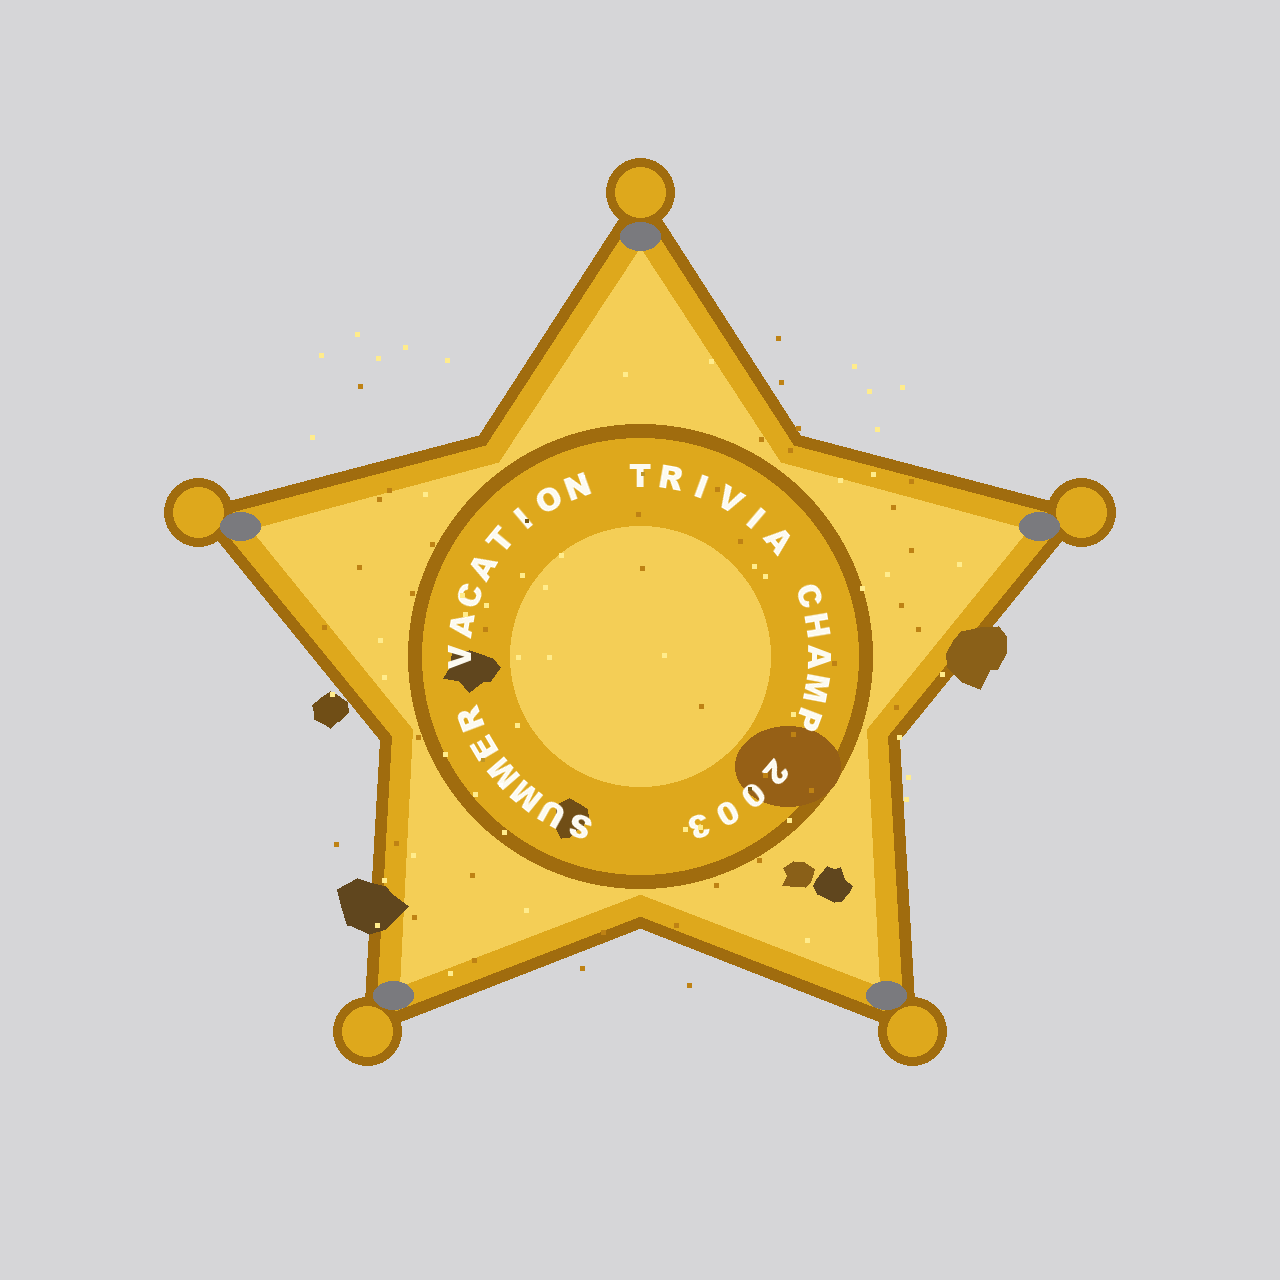
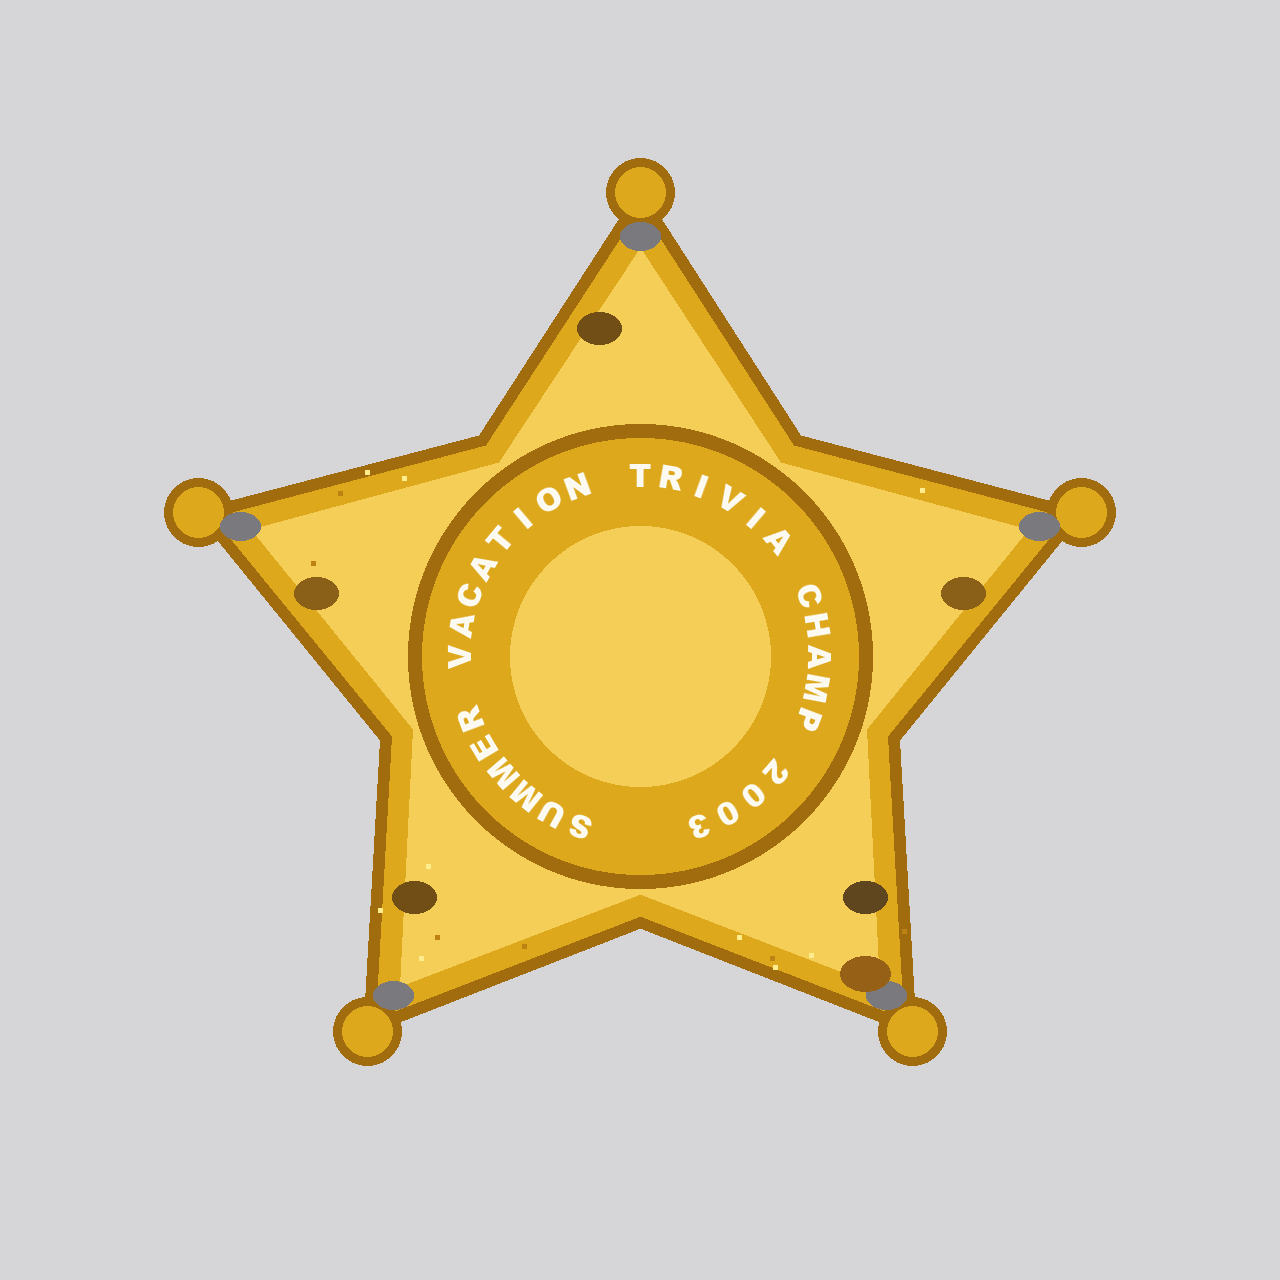
art(debaucheryville): badge star round 2 (grime off the lettering, onto the arms only)
Claude-Session: https://claude.ai/code/session_01Rk2Ri3vAu7TBhRadSU9CbJ

diff --git a/dev/asset_team/icon_refs/b14_gen.py b/dev/asset_team/icon_refs/b14_gen.py
@@ -67,22 +67,19 @@ def badge():
     d.ellipse((cx - rc, cy - rc, cx + rc, cy + rc), fill=GOLD_D)
     d.ellipse((cx - rc + 14, cy - rc + 14, cx + rc - 14, cy + rc - 14), fill=GOLD)
     d.ellipse((cx - 130, cy - 130, cx + 130, cy + 130), fill=GOLD_L)
-    stains(d, rnd, (int(cx - 380), int(cy - 380), int(cx + 380), int(cy + 380)), 7,
-           [(112, 78, 22), (138, 96, 24), (96, 70, 30)], 14, 34)
-    d.ellipse((cx + 95, cy + 70, cx + 200, cy + 150), fill=(150, 96, 22))
+    for k, ang in enumerate((-90, -18, 54, 126, 198)):   # grime only on the arms, never near the text ring
+        a = math.radians(ang + (7 if k % 2 else -7)); sx, sy = cx + 330 * math.cos(a), cy + 330 * math.sin(a)
+        d.ellipse((sx - 22, sy - 16, sx + 22, sy + 16), fill=[(112, 78, 22), (138, 96, 24), (96, 70, 30)][k % 3])
+    d.ellipse((cx + 200, cy + 300, cx + 250, cy + 335), fill=(150, 96, 22))
     txt = "SUMMER VACATION TRIVIA CHAMP 2003"
     big = Image.new("RGBA", (S, S), (0, 0, 0, 0))
     arc_text(big, txt, cx, cy, 182, 322, font("ariblk.ttf", 31), (252, 250, 240, 255), center_deg=-90)
-    sp = ImageDraw.Draw(big)
-    for _ in range(260):
-        x = rnd.randint(int(cx - 260), int(cx + 260)); y = rnd.randint(int(cy - 260), int(cy + 260))
-        if big.getpixel((x, y))[3] > 200:
-            sp.rectangle((x, y, x + 3, y + 3), fill=rnd.choice([(190, 150, 40, 255), (255, 255, 255, 255), (120, 90, 20, 255)]))
     img.alpha_composite(big)
     d2 = ImageDraw.Draw(img)
     for _ in range(90):
         x = rnd.randint(int(cx - 330), int(cx + 330)); y = rnd.randint(int(cy - 330), int(cy + 330))
-        d2.rectangle((x, y, x + 4, y + 4), fill=rnd.choice([(255, 236, 140, 255), (190, 130, 20, 255)]))
+        if 290 < math.hypot(x - cx, y - cy) < 440 and img.getpixel((x, y))[:3] != GREY and img.getpixel((x + 4, y + 4))[:3] != GREY:
+            d2.rectangle((x, y, x + 4, y + 4), fill=rnd.choice([(255, 236, 140, 255), (190, 130, 20, 255)]))
     img.convert("RGB").save(OUT + "trivia_champ_badge_ref.png")
     return OUT + "trivia_champ_badge_ref.png"
 

diff --git a/dev/asset_team/icon_refs/trivia_champ_badge_prompt.md b/dev/asset_team/icon_refs/trivia_champ_badge_prompt.md
@@ -1,4 +1,4 @@
-# trivia_champ_badge (Summer Vacation Trivia Champ badge): flat face art (batch 14, round 1)
+# trivia_champ_badge (Summer Vacation Trivia Champ badge): flat face art (batch 14, round 2: all grime moved off the lettering onto the arms; speckle cut-outs removed from the text)
 Method A-variant: star-outline thin slab (new `Tools/item3d/star_slab.py`, built only if A3 passes; card_slab.py/plate_slab.py cannot make a star silhouette). Pure Pillow, 0 credits, no image tool. Generator: `b14_gen.py`. Ref `trivia_champ_badge_ref.png` (1280, star on flat grey 214,214,216; margins L12.8 R12.8 T12.3 B16.7 percent, Pillow).
 Canon: design/items/trivia_champ_badge_item.md L38-45 (gold-painted plastic five-point sheriff star, ~4cm; gray plastic base, paint thin at the points even on Day 1; text curved around the star's face; Day 1-3 state: paint intact, glitter text fully legible).
 Shows: flat gold star with ball tips, bevel bands, a centre ring carrying the curved text, small bare gray patches at the five points, flat brown grime stains, glitter flecks. No pin (back side not shown). Pixel-art redo = this replaces the old pixel sprite as a 3D icon.
